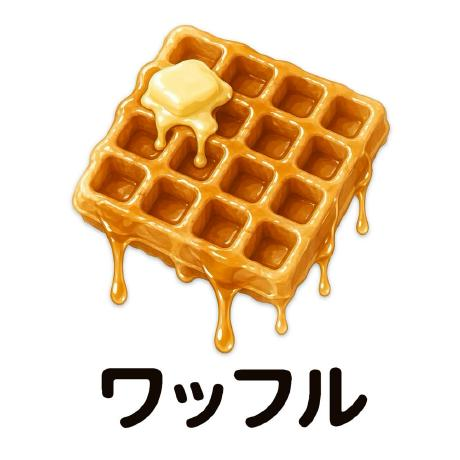
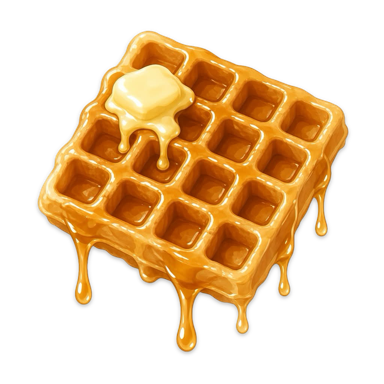
use the transparent waffle mark and shrink the assets
The old mark was the GitHub avatar: square art on a white background
with the katakana baked in. It needed a cream plate, a multiply blend
and a clip to look right on the dark ground.

This one has a real alpha channel and no lettering, so the plate and
both hacks are gone, and ワッフル comes back as text that stays sharp
at any resolution and can be selected.

Assets resized from the 1024px source: WebP at 384px with a PNG
fallback, 700K down to 25K on the path browsers actually take, plus a
64px favicon rather than serving the full logo as one.

diff --git a/index.html b/index.html
@@ -5,12 +5,14 @@
 <meta name="viewport" content="width=device-width, initial-scale=1">
 <title>Waffuru — Iron &amp; Butter</title>
 <meta name="description" content="Iron, a Rust kernel DSL that compiles one definition to Metal, CUDA, HIP and Vulkan. Butter, a dependency-light LLM inference library for Apple Silicon built on it. Releasing soon.">
-<link rel="icon" href="waffle.png">
+<link rel="icon" href="favicon.png" sizes="64x64">
+<link rel="apple-touch-icon" href="apple-touch-icon.png">
 <meta property="og:type" content="website">
 <meta property="og:title" content="Waffuru — Iron &amp; Butter">
 <meta property="og:description" content="A Rust kernel DSL and a dependency-light inference library for Apple Silicon. Releasing soon.">
-<meta property="og:image" content="waffle.png">
-<meta name="twitter:card" content="summary_large_image">
+<meta property="og:image" content="https://waffuru.ai/waffle.png">
+<meta name="twitter:card" content="summary">
+<meta property="og:url" content="https://waffuru.ai/">
 <style>
   /* Warm golds against a dark roast, taken from the waffle mark. */
   :root {
@@ -41,35 +43,28 @@
   }
   main { width: 100%; max-width: 680px; text-align: center; }
 
+  /* The mark has a real alpha channel, so it sits straight on the ground:
+     no plate, no blend mode, nothing to clip. */
   .logo {
-    width: 132px; height: 132px;
-    margin: 0 auto 26px;
+    width: 150px; height: 150px;
+    margin: 0 auto 18px;
     display: block;
-    /* The source mark sits on white; multiply drops the paper, and a warm
-       glow behind it keeps the edges from going muddy on the dark ground. */
-    mix-blend-mode: multiply;
-    filter: drop-shadow(0 0 26px rgba(224,163,65,.42)) saturate(1.05);
+    filter: drop-shadow(0 14px 28px rgba(0,0,0,.45))
+            drop-shadow(0 0 34px rgba(224,163,65,.28));
   }
-  .logo-plate {
-    width: 158px; height: 158px;
-    margin: 0 auto 26px;
-    display: grid; place-items: center;
-    border-radius: 50%;
-    /* Clip anything that reaches past the circle. The mark is square art on
-       white, so without this its corners and the katakana sit outside. */
-    overflow: hidden;
-    background: radial-gradient(circle at 50% 42%, #fdf6ea 0%, #f6e7cd 62%, #eddcbd 100%);
-    box-shadow: 0 0 0 1px rgba(224,163,65,.28), 0 18px 50px rgba(0,0,0,.5);
-  }
-  /* A square inscribed in a circle is diameter / sqrt(2) ~= 0.707. Staying
-     under that keeps every corner of the artwork inside the plate. */
-  .logo-plate .logo { margin: 0; width: 108px; height: 108px; }
 
   h1 {
-    margin: 0 0 20px;
+    margin: 0 0 6px;
     font-size: clamp(2.3rem, 7vw, 3.4rem);
     letter-spacing: -0.03em;
     font-weight: 700;
+  }
+  .kana {
+    margin: 0 0 22px;
+    color: var(--gold);
+    font-size: .95rem;
+    letter-spacing: .38em;
+    text-indent: .38em; /* offset the trailing letter-space so it stays centred */
   }
   .lede { margin: 0 auto 40px; max-width: 30rem; color: var(--muted); font-size: 1.06rem; }
 
@@ -113,8 +108,12 @@
 </head>
 <body>
 <main>
-  <div class="logo-plate"><img class="logo" src="waffle.png" alt="The Waffuru waffle mark"></div>
+  <picture>
+    <source srcset="waffle.webp" type="image/webp">
+    <img class="logo" src="waffle.png" width="150" height="150" alt="The Waffuru waffle mark: a syrup-drenched waffle with a pat of melting butter">
+  </picture>
   <h1>Waffuru</h1>
+  <p class="kana" lang="ja">ワッフル</p>
   <p class="lede">Low-level tools for running models fast on the hardware you already own.</p>
 
   <div class="cards">
